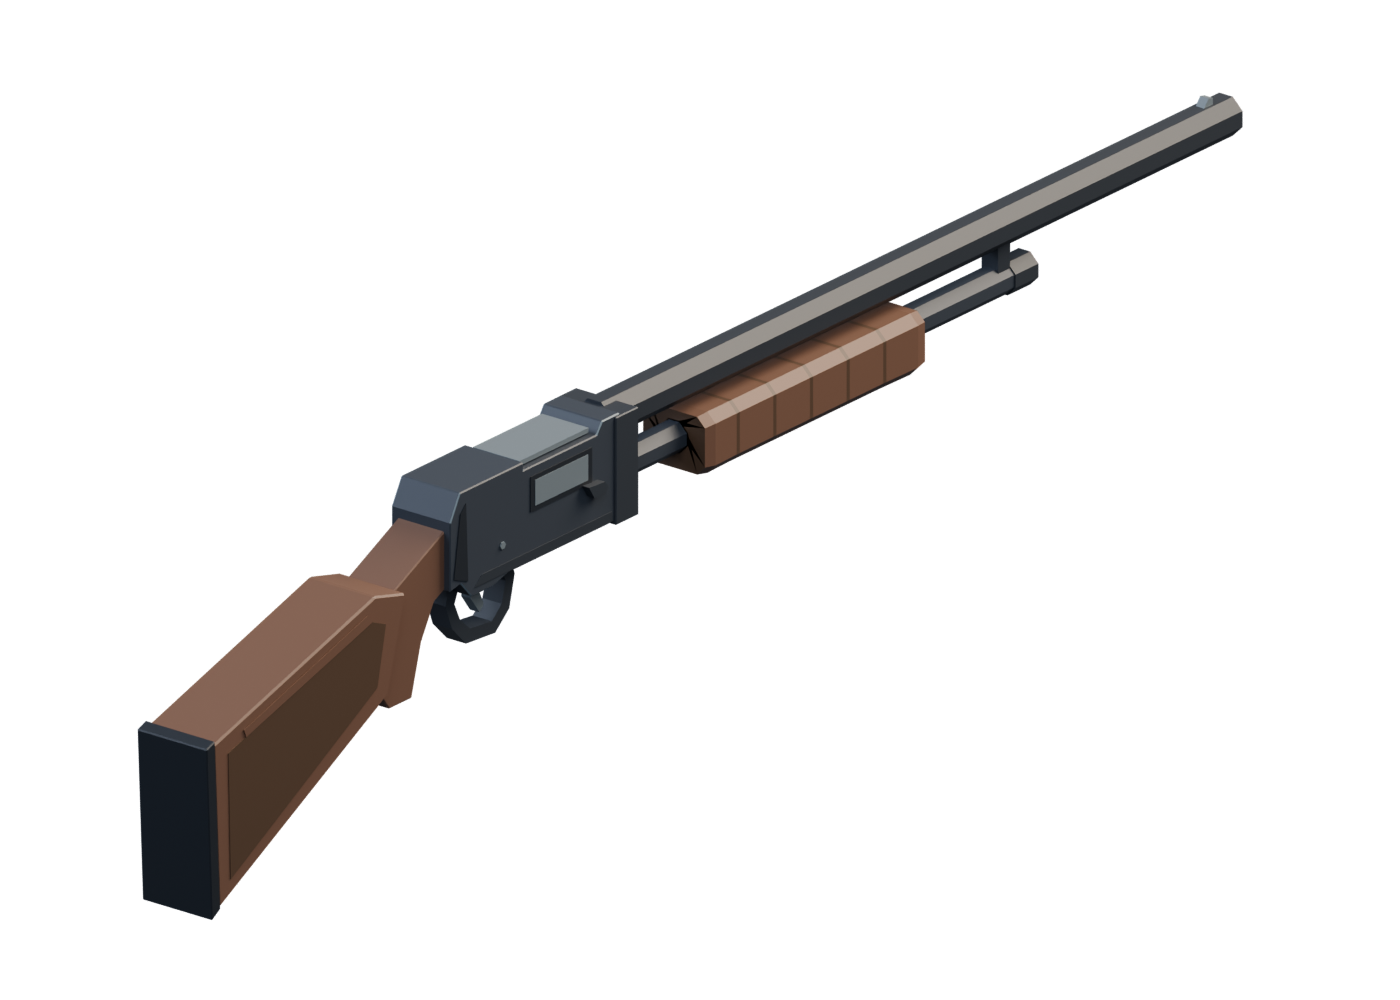
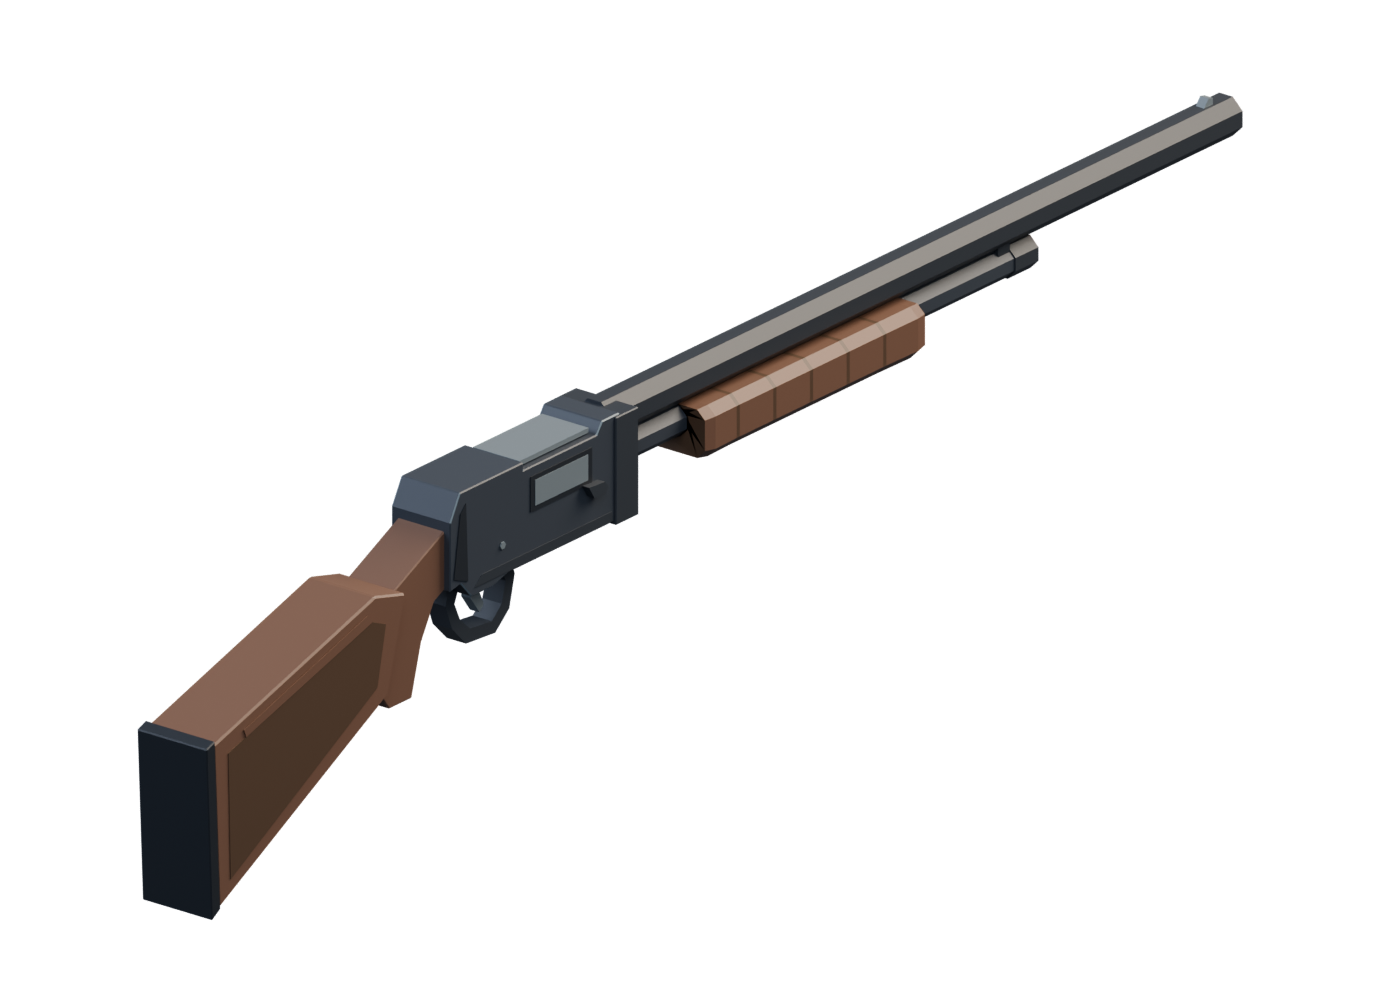
chore: checkpoint completed project changes

Changed region(s): [[0.43, 0.217, 0.7679, 0.496]]

diff --git a/blender/weapons/shotgun_stylized_v2/build_shotgun.py b/blender/weapons/shotgun_stylized_v2/build_shotgun.py
@@ -79,41 +79,43 @@ box('BoltFace',.098,.147,.052,.068,.0005,3,x=.0221)
 profile('BoltHandle',[(.142,.050),(.157,.049),(.160,.045),(.157,.041),(.147,.042)],.006,0,x=.024)
 # Thin steel barrel and lower magazine tube remain distinct in the silhouette.
 tube('HollowLongBarrel',.181,.767,.073,.013,0,bore=.0085)
-tube('MagazineTube',.183,.568,.039,.010,7)
-tube('TubeFrontCap',.559,.580,.039,.011,0)
-box('BarrelTubeBridge',.548,.559,.038,.067,.012,0)
-box('PumpActionBar',.180,.459,.029,.034,.0025,3,x=-.013)
+tube('MagazineTube',.183,.568,.0493,.010,7)
+tube('TubeFrontCap',.559,.580,.0493,.011,0)
+box('BarrelTubeBridge',.548,.559,.0483,.067,.012,0)
+box('PumpActionBar',.180,.459,.0393,.0443,.0025,3,x=-.013)
 profile('FrontSight',[(.742,.084),(.751,.084),(.751,.089),(.747,.090)],.006,3)
 # Connected open guard and hooked trigger; no detached upper joints.
 ring('TriggerGuard',[(.038,.022),(.092,.022),(.098,.006),(.093,-.014),(.080,-.025),(.053,-.023),(.040,-.010),(.034,.006)],[(.046,.014),(.085,.014),(.090,.004),(.086,-.009),(.077,-.017),(.057,-.015),(.047,-.006),(.042,.005)],.014,0)
 profile('Trigger',[(.065,.022),(.071,.022),(.069,.004),(.074,-.006),(.070,-.010),(.062,.001)],.007,3)
 # Hollow fore-end with broad shallow grooves, genuinely separate for pumping.
-cross=[(-.018,.018),(.018,.018),(.024,.024),(.024,.050),(.018,.056),(-.018,.056),(-.024,.050),(-.024,.024)]
+cross=[(-.018,.0283),(.018,.0283),(.024,.0343),(.024,.0545),(.018,.0602),(-.018,.0602),(-.024,.0545),(-.024,.0343)]
 ys=[.255,.263,.283,.286,.317,.320,.351,.354,.385,.388,.419,.422,.451,.459]
 vs=[];fs=[];colors=[]
 for index,y in enumerate(ys):
  scale=.94 if index in [0,len(ys)-1] else (.985 if index in [2,3,4,5,6,7,8,9,10,11] else 1)
- vs.extend((x*scale,y,.038+(z-.038)*scale) for x,z in cross)
+ vs.extend((x*scale,y,.0483+(z-.0483)*scale) for x,z in cross)
 for k in range(len(ys)-1):
  for i in range(8):
   j=(i+1)%8;fs.append((k*8+i,k*8+j,(k+1)*8+j,(k+1)*8+i));colors.append(6 if k in [2,4,6,8,10] else 5)
 outer_end=(len(ys)-1)*8;inner0=len(vs)
-for y in [ys[0],ys[-1]]:vs.extend((math.cos((i+.5)*math.tau/8)*.0108,y,.039+math.sin((i+.5)*math.tau/8)*.0108) for i in range(8))
+for y in [ys[0],ys[-1]]:vs.extend((math.cos((i+.5)*math.tau/8)*.0108,y,.0493+math.sin((i+.5)*math.tau/8)*.0108) for i in range(8))
 for i in range(8):
  j=(i+1)%8;fs.extend([(inner0+i,inner0+8+i,inner0+8+j,inner0+j),(i,inner0+i,inner0+j,j),(outer_end+i,outer_end+j,inner0+8+j,inner0+8+i)]);colors.extend([6,6,6])
 mesh('WoodPumpWithOpenTubeChannel',vs,fs,kind='Pump',tiles=colors)
 def join(objects,name,pivot):
  bpy.ops.object.select_all(action='DESELECT')
  for o in objects:o.select_set(True)
- bpy.context.view_layer.objects.active=objects[0];bpy.ops.object.join();o=bpy.context.object;o.name=name
+ bpy.context.view_layer.objects.active=objects[0]
+ if len(objects)>1:bpy.ops.object.join()
+ o=bpy.context.object;o.name=name
  for v in o.data.vertices:v.co-=pivot
  o.parent=root;o.location=pivot
  for poly in o.data.polygons:poly.material_index=0
  while len(o.data.materials)>1:o.data.materials.pop(index=len(o.data.materials)-1)
  return o
 base=join(parts['Base'],'Shotgun_V2_Base',Vector((0,0,0)))
-pump=join(parts['Pump'],'Shotgun_V2_Pump',Vector((0,.356,.038)));pump['role']='Independent fore-end; reference pumping travel local Y -55mm'
-markers={'RightHandGrip':(0,0,0),'LeftHandGuide':(0,.356,.038),'Muzzle':(0,.767,.073),'AimReference':(0,.740,.089),'RecoilPivot':(0,0,0),'HolsterAttach':(0,0,0),'Grip_Point':(0,0,0),'Support_Hand_Point':(0,.356,.038),'Muzzle_Point':(0,.767,.073),'ReloadPort':(.0225,.123,.060),'PumpReference':(0,.356,.038)}
+pump=join(parts['Pump'],'Shotgun_V2_Pump',Vector((0,.356,.0483)));pump['role']='Independent fore-end; reference pumping travel local Y -55mm'
+markers={'RightHandGrip':(0,0,0),'LeftHandGuide':(0,.356,.0483),'Muzzle':(0,.767,.073),'AimReference':(0,.740,.089),'RecoilPivot':(0,0,0),'HolsterAttach':(0,0,0),'Grip_Point':(0,0,0),'Support_Hand_Point':(0,.356,.0483),'Muzzle_Point':(0,.767,.073),'ReloadPort':(.0225,.123,.060),'PumpReference':(0,.356,.0483)}
 for name,pos in markers.items():
  o=bpy.data.objects.new(name,None);c.objects.link(o);o.parent=root;o.location=pos;o.empty_display_type='ARROWS';o.empty_display_size=.014
 bpy.context.view_layer.update();meshes=[base,pump];points=[o.matrix_world@v.co for o in meshes for v in o.data.vertices];topology={}

diff --git a/blender/weapons/shotgun_stylized_v2/verify_shotgun.py b/blender/weapons/shotgun_stylized_v2/verify_shotgun.py
@@ -50,5 +50,5 @@ if '--asset-only' not in sys.argv:
  for key,value in old.items():
   if key not in ['weapons','default_selection']:assert manifest[key]==value,('Library metadata changed',key)
  assert manifest['default_selection']=='shotgun_stylized_v2'
-report={'passed':True,'triangles':triangles,'parts':count,'materials':1,'texture':[64,64],'markers':len(asset['markers']),'pump_travel_m':.055,'protected_files':len(baseline),'changed':changed,'actions':0}
+report={'passed':True,'triangles':triangles,'parts':count,'materials':1,'texture':[64,64],'markers':len(asset['markers']),'pump_travel_m':.055,'barrel_gap_m':{'lower_tube':tube_gap,'pump':pump_gap},'protected_files':len(baseline),'changed':changed,'actions':0}
 (HERE/'verification.json').write_text(json.dumps(report,indent=2));print('SHOTGUN_VERIFIED',json.dumps(report))
